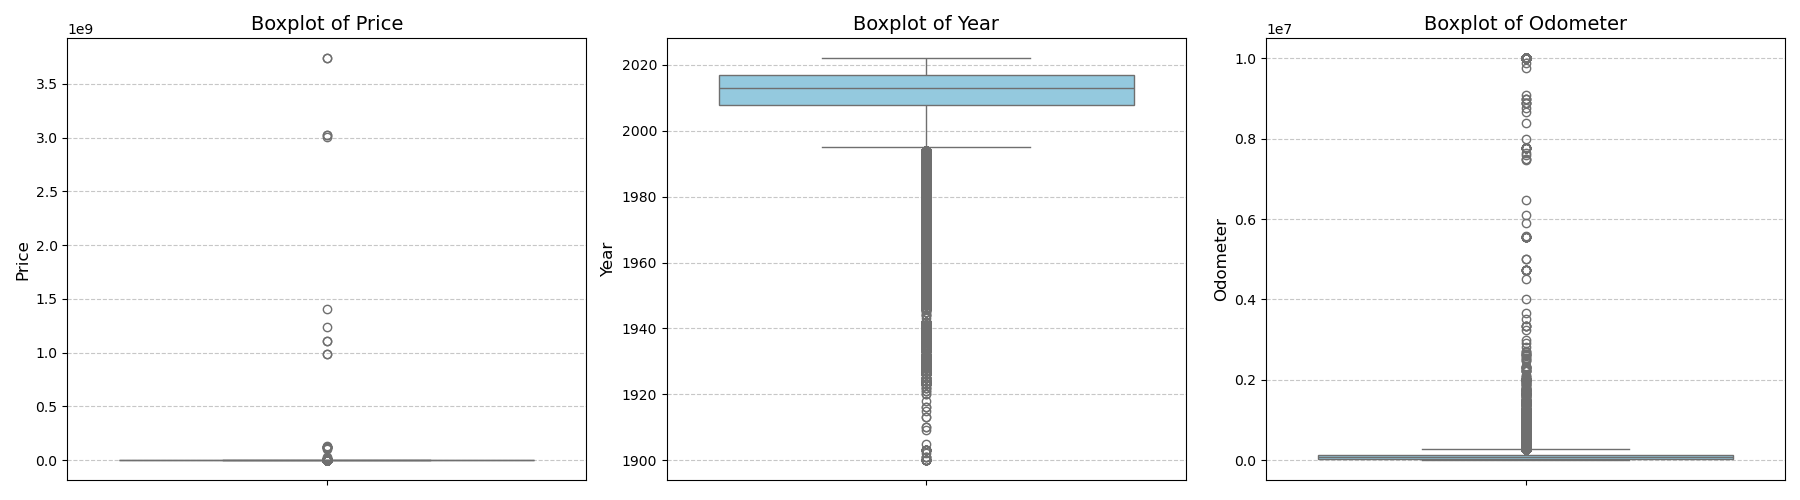
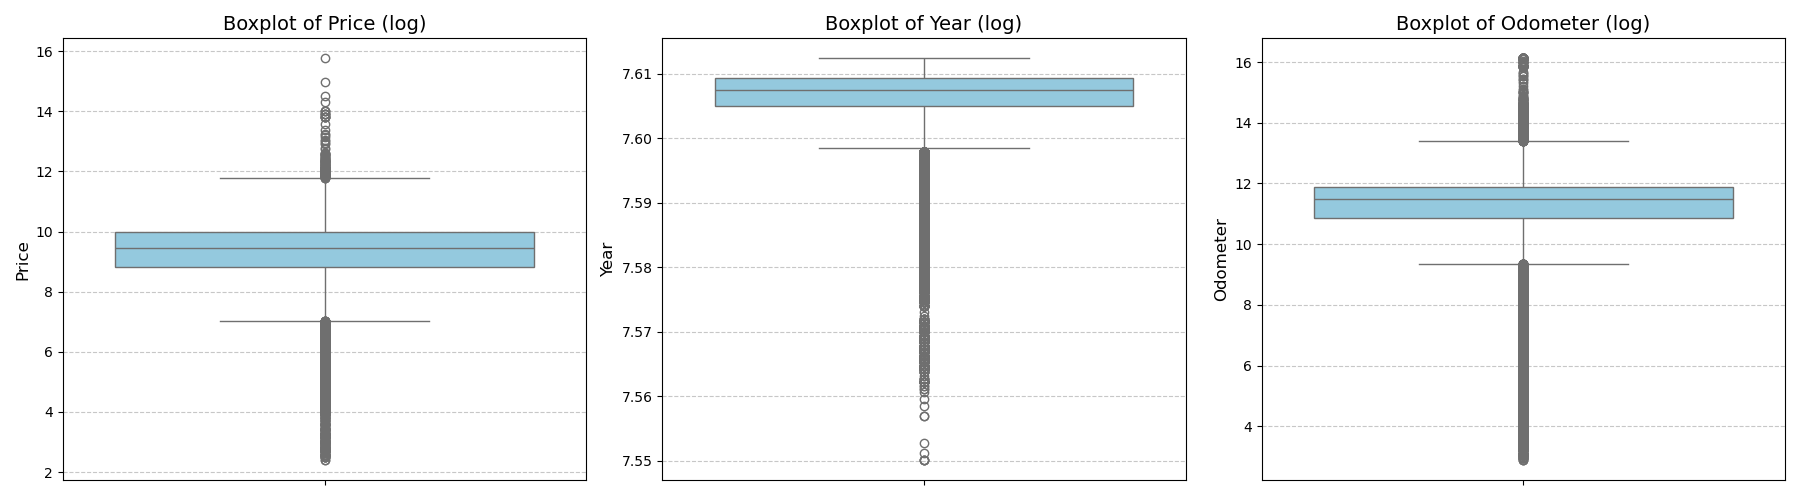
adding readme

diff --git a/Used_Car_Dealership/readme.md b/Used_Car_Dealership/readme.md
@@ -315,9 +315,36 @@ Other types like convertibles and coupes have lower counts, likely reflecting ni
 - As odometer (mileage) increases, price decreases, confirming the standard vehicle depreciation trend.
 - Vehicles with lower mileage tend to be priced higher.
 
-### 11. Data Encoding
-### 12. Ordinal encoding
-### 13. One hot encoding for fuel
+## Data Preparation Summary 
+
+![summary](./images/boxplot_outliers.png)
+
+**Price Distribution (Price Boxplot)**
+
+- There are many outliers in high-price values (luxury or premium cars).
+- The median price is relatively low, suggesting most vehicles are affordable.
+- Lower whiskers show some very cheap vehicles (possible salvage or damaged cars).
+
+- Insights:
+
+- Consider removing extreme high-price outliers to prevent misleading data.
+- Investigate very low-priced listings for potential fraudulent or misclassified vehicles.
+
+**Year Distribution (Year Boxplot)**
+
+- The majority of vehicles are from the mid to late 2000s.
+- Old cars (before 1990s) appear as outliers, possibly classic or vintage cars.
+- Newer vehicles (past 2020) might have some anomalies due to incorrect data entries.
+
+- Older cars (pre-1990) should be checked, as they might be incorrectly entered or special cases.
+
+**Odometer Distribution (Odometer Boxplot)**
+
+- The median odometer reading is moderate, but many high-mileage vehicles exist.
+- High-mileage outliers (>300,000 miles) suggest either:
+
+- Extreme odometer readings should be reviewed to detect possible incorrect entries.
+- Very low-mileage listings should be verified as potential new vehicle misclassifications
 
 ### Key Findings
 
